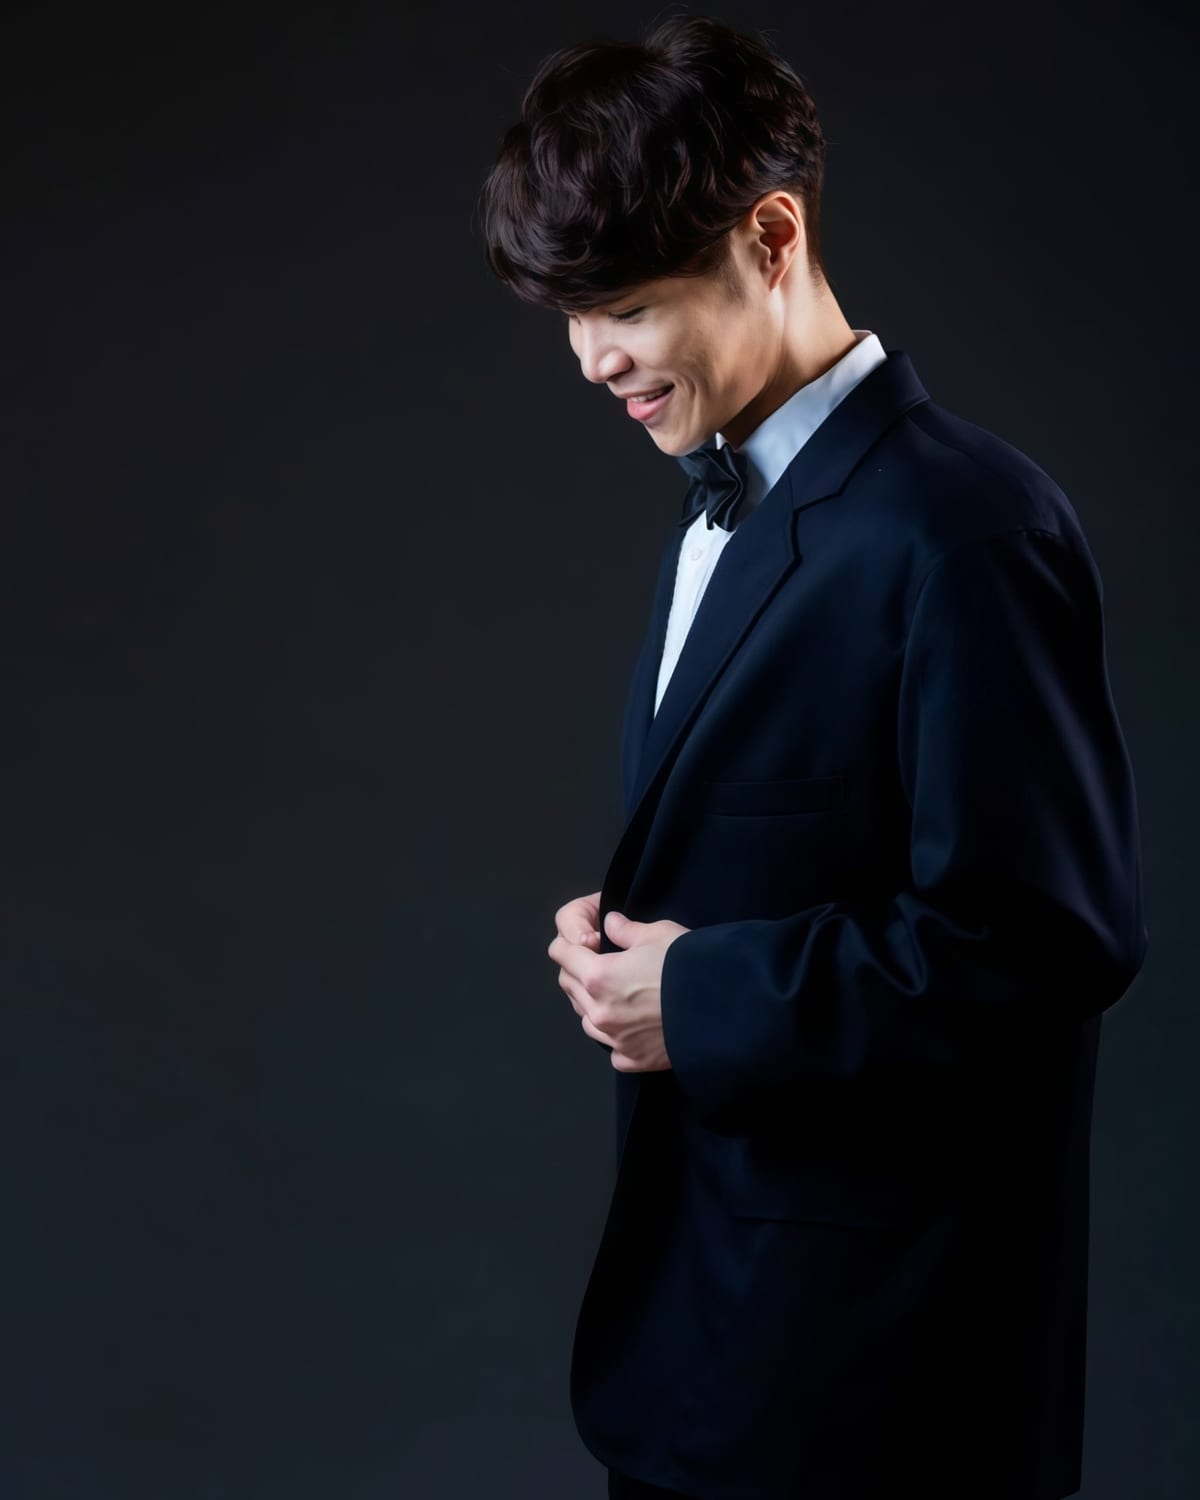
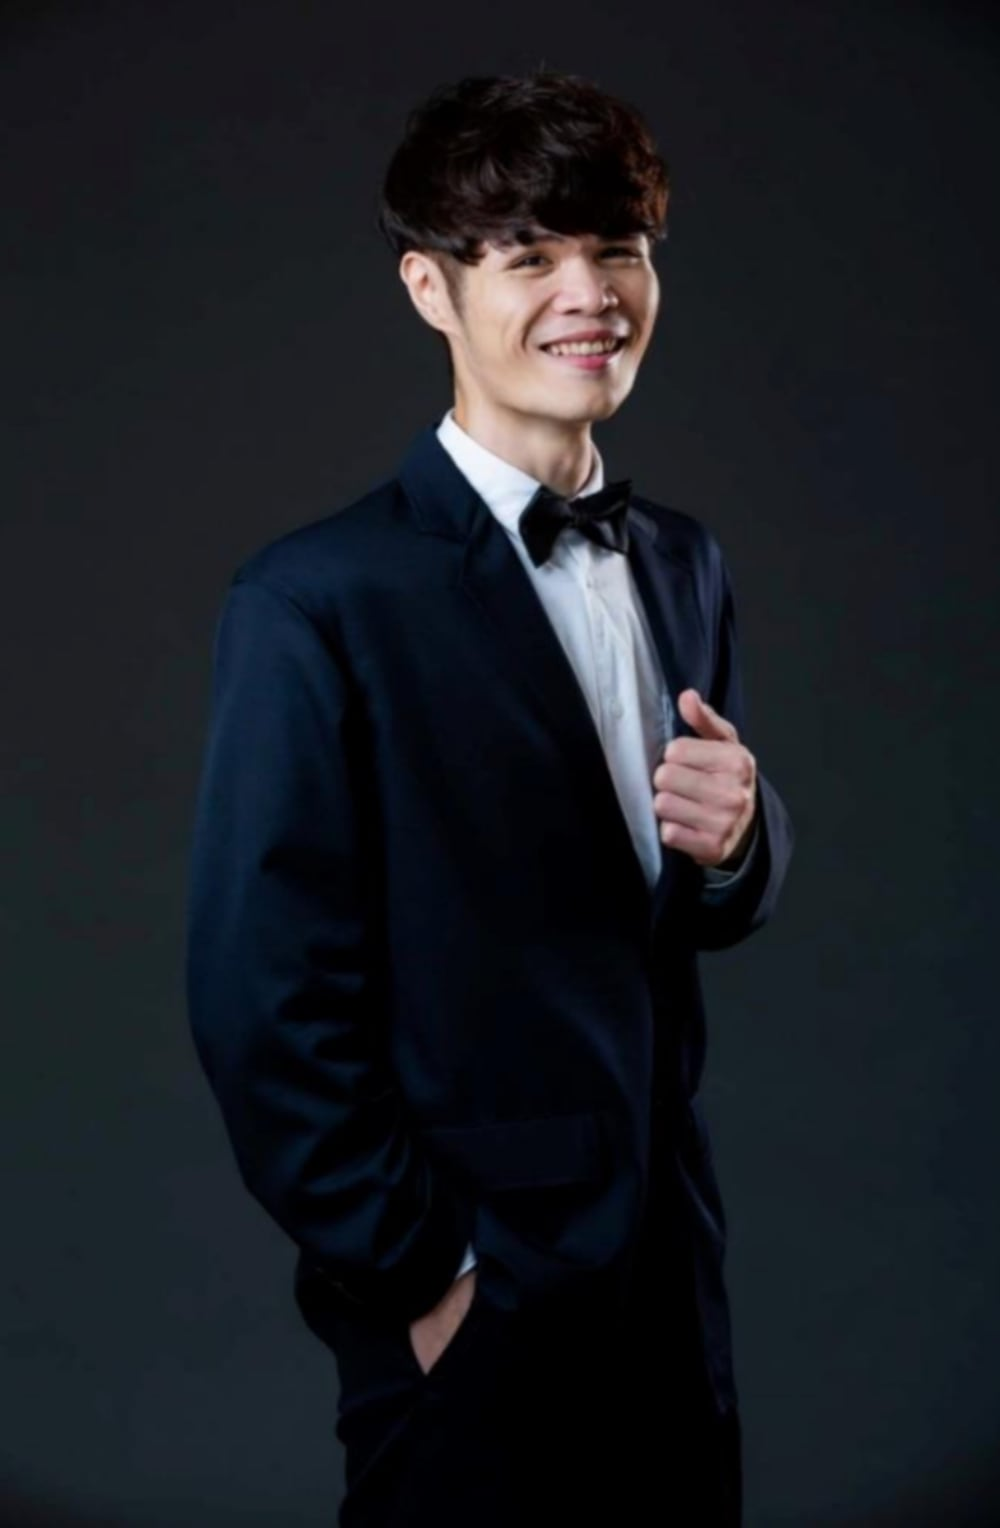
團隊：黎謙換照片，非洲戰鼓團換成 Funky Girls
一、黎謙（13 號片格）換成新照片，取景從 11% 調到 5%——
    新照片人物位置不同，11% 會切到頭頂。CSS 版與 WebGL 版的
    focus 都改了。

二、15／16 號從「曼加非洲戰鼓團」整組換成「舞團 Funky Girls」。

    文字全部照使用者提供的資料寫，一句都沒有自行發揮。原本那組的
    經歷（2010 巴黎邀請賽、甘比亞得獎、台北街頭藝人證、澳門與美國
    長駐）是另一個團的真實實績，不能留著套在新團身上。

    詳情面板用 fillWorks 的多組結構排：
      15  團體介紹（3 條）／表演優勢（2 條）／擅長演出類型（6 條）
      16  特殊經歷（2 條）

    三語都寫齊。原本英文與日文只有小標、沒有條列，開詳情會顯示
    「資料待提供」——這次一併補上。

    片格色調從土黃／墨綠改成藍（--a:#24467f、#2b4e8c），配新照片。

    「活動成果」章節裡的 pf.d3 提到五人非洲鼓團，那是一個真實發生
    過的案子紀錄，不是團隊名冊，保留不動。

三、還缺一張照片

    使用者傳了羽毛裝的團體照，但那張沒有落到檔案系統上，我只拿到
    文字。15／16 先用啦啦隊那張的兩種取景頂著：
      15 拉近到舞者
      16 保留「火力全開 2024尾牙餐會」背板，對得上經歷文字
    等照片重傳再換 15。

驗證（在頁面裡重跑 fillWorks 的邏輯，直接檢查三語輸出）：
  zh  w8a 3 組 / w8b 1 組
  en  w8a 3 組 / w8b 1 組
  ja  w8a 3 組 / w8b 1 組
  三語的 s15／s16 標題都正確，無 JS 錯誤。

Claude-Session: https://claude.ai/code/session_01UaaBt4D3iARJKEYnnKsipL

diff --git a/experimental/immersive/index.html b/experimental/immersive/index.html
@@ -2477,16 +2477,16 @@
             <div class="frame-shot" style="--a:#4a3556; --b:#140f1a; background-image: url(../../assets/team/12.jpg); background-size: cover; background-position: center 40%"><span class="num">12</span><span class="frame-role" data-i18n="teams.s12">Violinist Belina | Selected work</span></div>
           </article>
           <article class="frame">
-            <div class="frame-shot" style="--a:#1b2436; --b:#080b12; background-image: url(../../assets/team/13.jpg); background-size: cover; background-position: center 11%"><span class="num">13</span><span class="frame-role" data-i18n="teams.s13">Singer LC | Profile</span></div>
+            <div class="frame-shot" style="--a:#1b2436; --b:#080b12; background-image: url(../../assets/team/13.jpg); background-size: cover; background-position: center 5%"><span class="num">13</span><span class="frame-role" data-i18n="teams.s13">Singer LC | Profile</span></div>
           </article>
           <article class="frame">
             <div class="frame-shot" style="--a:#2a2a2a; --b:#0d0d0d; background-image: url(../../assets/team/14.jpg); background-size: cover; background-position: center 5%"><span class="num">14</span><span class="frame-role" data-i18n="teams.s14">Singer LC | Selected work</span></div>
           </article>
           <article class="frame">
-            <div class="frame-shot" style="--a:#5a3a18; --b:#1a1008; background-image: url(../../assets/team/15.jpg); background-size: cover; background-position: center 6%"><span class="num">15</span><span class="frame-role" data-i18n="teams.s15">Dance troupe 曼加非洲戰鼓團 | About the group</span></div>
+            <div class="frame-shot" style="--a:#24467f; --b:#0b1426; background-image: url(../../assets/team/15.jpg); background-size: cover; background-position: center 50%"><span class="num">15</span><span class="frame-role" data-i18n="teams.s15">Dance troupe Funky Girls | About the group</span></div>
           </article>
           <article class="frame">
-            <div class="frame-shot" style="--a:#3d5a2a; --b:#101a0b; background-image: url(../../assets/team/16.jpg); background-size: cover; background-position: center 50%"><span class="num">16</span><span class="frame-role" data-i18n="teams.s16">Dance troupe 曼加非洲戰鼓團 | Highlights</span></div>
+            <div class="frame-shot" style="--a:#2b4e8c; --b:#0c1729; background-image: url(../../assets/team/16.jpg); background-size: cover; background-position: center 50%"><span class="num">16</span><span class="frame-role" data-i18n="teams.s16">Dance troupe Funky Girls | Highlights</span></div>
           </article>
         </div>
       </div>
@@ -2885,8 +2885,8 @@
         'teams.b12': 'Concerts \u00b7 award ceremonies \u00b7 brand events',
         'teams.b13': 'Singer-songwriter and keyboardist \u00b7 talent-show winner',
         'teams.b14': 'Concerts \u00b7 hotel residencies \u00b7 commercial gigs',
-        'teams.b15': 'African war drums \u00b7 dance \u00b7 voice',
-        'teams.b16': 'International invitationals \u00b7 street-artist licence \u00b7 long residencies',
+        'teams.b15': 'Cheer dance \u00b7 commercial stage sets',
+        'teams.b16': 'Corporate year-end banquets \u00b7 pro sports venues \u00b7 outdoor carnivals',
         'teams.todo': 'Still to be supplied: name, profile and event history.',
         'teams.i6.inst': 'Violin / viola.',
         'teams.i6.edu': 'MA and BA in music, National Taipei University of Education; Tainan Girls\u2019 Senior High School.',
@@ -2900,7 +2900,13 @@
         'teams.w7.g2': 'Concerts & special appearances',
         'teams.w7.g3': 'Venues, hotel residencies & commercial gigs',
         'teams.w8a.g1': 'About the group',
+        'teams.w8a.l1': 'A professional pop-dance and commercial performance troupe — young, and high on energy. | Tall, well-trained dancers, among them regulars from the Fubon Angels cheer squad. | Known for tight, polished choreography, a bright presence and real rapport with a room, across every style of pop dance.',
+        'teams.w8a.g2': 'What they bring',
+        'teams.w8a.l2': 'They lift the energy of a room. | A hard-hitting opening number or a mid-programme set that gets the whole floor going — either way the banquet, the year-end party or the brand event catches fire on cue.',
+        'teams.w8a.g3': 'Best suited to',
+        'teams.w8a.l3': 'Year-end and spring banquet openings | Brand launches | Weddings and banquets | Commercial event support | Cheer-squad dance sets | Large parties and seasonal events',
         'teams.w8b.g1': 'Highlights',
+        'teams.w8b.l1': 'Opening and mid-programme dance sets at corporate year-end banquets and large commercial dinners, including events for groups such as Yida. | Professional baseball and basketball venues, commercial showcases and outdoor carnivals.',
         'teams.w6.l1': 'Maserati 臺灣區展示活動開幕樂手（2025）| 羅大佑《春龍交響夜》成都、北京、澳門場演唱會樂手（2024）| 張清芳《TimeLESS》上海場演唱會樂手（2024）| 台北流行音樂中心「文化館生日慶音樂會」表演嘉賓（2023）',
         'teams.w6.l2': '音樂節目《樂來樂快樂》錄製（2022）| 歐客佬咖啡豆廣告錄製（2022）| 《傳說對決》夏季冠軍賽開場演出樂手（2022）| 動畫短片《貓年海岸》音樂錄製（2021）| 玩弦四度爵士樂團：府城流水席、青春正好音樂祭、國家歌劇院「爵士好時光」、宜蘭傳藝「大聲音樂節」、基隆仲夏樂集、國家兩廳院「古典 born 爵士」、東海岸大地藝術節（2020）',
         'teams.w6.l3': '蕭敬騰《娛樂先生》演唱會樂手（2019）| 吳宗憲 Jacky Wu 演唱會樂手（2019）| 張信哲單曲〈說〉弦樂錄製（2017）| 《semifusa》同名專輯發行，入圍第 27 屆金曲獎「演奏類最佳專輯獎」、「最佳專輯製作人獎」、「最佳演奏錄音專輯獎」三項大獎（2016）| 林志炫《one take》演唱會樂手（2016）| 張克帆《兩個世界》演唱會樂手（2016）| 金點設計獎頒獎典禮開場演出樂手（2015）| 第 26 屆金曲獎主題曲錄製（2015）| WAO 女人音樂節演唱會樂手（2014）| 庾澄慶《我的哈林年代》演唱會樂手（2014）| 金馬獎頒獎典禮 — 張學友〈用餘生去愛〉典禮樂手（2014）| KKBOX 頒獎典禮 — 張學友典禮樂手（2014）| 公視《那些年，我們的歌》節目樂手（2014）',
@@ -3150,8 +3156,8 @@
         'teams.s12': '小提琴手 張家瑜 Belina ｜ 個人經歷', 'teams.b12': '演唱會 · 頒獎典禮 · 品牌活動樂手',
         'teams.s13': '歌手 黎謙 LC ｜ 個人介紹', 'teams.b13': '唱作人兼鍵盤手 · 選秀冠亞軍',
         'teams.s14': '歌手 黎謙 LC ｜ 個人經歷', 'teams.b14': '演唱會 · 飯店駐唱 · 商演',
-        'teams.s15': '舞團 曼加非洲戰鼓團 ｜ 團體介紹', 'teams.b15': '非洲戰鼓 · 舞蹈 · 歌手',
-        'teams.s16': '舞團 曼加非洲戰鼓團 ｜ 特殊經歷', 'teams.b16': '國際邀請賽 · 街頭藝人 · 長駐演出',
+        'teams.s15': '舞團 Funky Girls ｜ 團體介紹', 'teams.b15': '啦啦隊熱舞 · 商演舞蹈',
+        'teams.s16': '舞團 Funky Girls ｜ 特殊經歷', 'teams.b16': '企業尾牙 · 職業球場 · 戶外嘉年華',
         'teams.todo': '資料待提供：姓名、介紹與過往經歷都還沒拿到。',
         'teams.i6.inst': '小提琴（Violin）／中提琴（Viola）。',
         'teams.i6.edu': '畢業於國立臺北教育大學音樂研究所、國立臺北教育大學音樂系及國立臺南女子高級中學。',
@@ -3166,8 +3172,12 @@
         'teams.w7.g3': '知名場地與飯店駐唱 / 商演',
         'teams.w8a.g1': '團體介紹',
         'teams.w8b.g1': '特殊經歷',
-        'teams.w8a.l1': '曼加非洲戰鼓團以震撼的戰鼓、熱情的音樂和充滿活力的舞蹈，生動呈現非洲草原的奔放壯闊，為觀眾打開通往非洲世界的一扇窗。| 透過熱力四射的非洲戰鼓，表演者們勇於展現自我，一邊用手敲打、一邊舞出節奏，兩者完美結合。| 強烈多變的節奏與嘹亮震撼的鼓聲，讓參與者彷彿置身非洲大草原，跟隨動物王國的腳步起舞跳躍，感受非洲音樂的野性與生命力。| 曼加非洲戰鼓團是非洲當地極具盛名的表演團體，團員有高音打擊樂手、手鼓、舞者以及道地的非洲歌手。| 團員背景豐富多樣，不僅精通音樂，還擁有其他令人稱奇的技能——隊中有國內厲害的狩獵高手、來自巫師家庭的通靈歌手，還有時髦的非洲流行音樂製作人。| 這樣獨特而多元的組合，使他們在音樂表演領域中享譽非洲及國際音樂圈。',
-        'teams.w8b.l1': '2010 巴黎國際原住民文化傳承邀請賽。| 於甘比亞國內從部落到首都到其他非洲國家得獎無數。| 部分團員於 2015 年 5 月獲得台北市政府文化局核准街頭藝人（380 團只錄取 30 幾團）。| 目前長駐澳門與美國，部分團員於 2015 年與台中麗寶樂園簽約演出一年，並曾於高雄義大演出 5 年。| 2020 獲選新北市政府鼓藝節鼓藝示範團隊。| 2020 獲選新北市國父紀念非洲文化館示範團隊。',
+        'teams.w8a.l1': '充滿青春活力、熱情四射的專業流行舞蹈與商演表演團體。| 成員多具備高挑身材與深厚舞功，富邦啦啦隊 Fubon Angels 的人氣成員亦為班底。| 以精湛整齊的舞姿、甜美外型與極佳的舞台互動魅力著稱，能完美駕馭各種風格的流行熱舞。',
+        'teams.w8a.g2': '表演優勢',
+        'teams.w8a.l2': '擅長炒熱現場氣氛。| 無論是震撼的開場舞，或是帶動全場的高潮中場舞，總能瞬間點燃晚會、尾牙與商業活動的熱情。',
+        'teams.w8a.g3': '擅長演出類型',
+        'teams.w8a.l3': '企業尾牙春酒開場 | 品牌發表會 | 婚禮宴會 | 商業活動助陣 | 啦啦隊熱舞 | 大型派對與節慶活動',
+        'teams.w8b.l1': '各大企業年度尾牙餐會、大型商業晚宴的開場與中場熱舞表演（如依田集團等大型企業活動）。| 職棒、職籃球場及各大商業展演、戶外嘉年華活動。',
         'teams.s9': '主持人 TongTong 彤彤 ｜ 個人介紹', 'teams.b9': '7 年以上主持經驗 · 飛藝舞團團長',
         'teams.s10': '主持人 TongTong 彤彤 ｜ 個人經歷', 'teams.b10': '尾牙春酒 · 記者會 · 家庭日與親子活動',
         'teams.i5.bg': '擁有超過 7 年的專業主持經驗，個性活潑開朗、親和力十足，同時也是「飛藝舞團」的團長。',
@@ -3387,8 +3397,8 @@
         'teams.s12': 'ヴァイオリニスト 張家瑜 Belina ｜ 実績', 'teams.b12': 'コンサート · 授賞式 · ブランドイベント',
         'teams.s13': 'シンガー 黎謙 LC ｜ プロフィール', 'teams.b13': 'シンガーソングライター兼キーボード · オーディション優勝・準優勝',
         'teams.s14': 'シンガー 黎謙 LC ｜ 実績', 'teams.b14': 'コンサート · ホテル常演 · 商業公演',
-        'teams.s15': 'ダンスチーム 曼加アフリカ戦鼓団 ｜ 団体紹介', 'teams.b15': 'アフリカ戦鼓 · ダンス · ヴォーカル',
-        'teams.s16': 'ダンスチーム 曼加アフリカ戦鼓団 ｜ 特記事項', 'teams.b16': '国際招待大会 · ストリートアーティスト認定 · 長期常演',
+        'teams.s15': 'ダンスチーム Funky Girls ｜ 団体紹介', 'teams.b15': 'チアダンス · 商業公演',
+        'teams.s16': 'ダンスチーム Funky Girls ｜ 特記事項', 'teams.b16': '企業忘年会 · プロスポーツ会場 · 屋外カーニバル',
         'teams.todo': '氏名・プロフィール・実績は後日追加します。',
         'teams.i6.inst': 'ヴァイオリン（Violin）／ヴィオラ（Viola）。',
         'teams.i6.edu': '国立台北教育大学 音楽研究科修了、同大学 音楽学科卒業、国立台南女子高級中学卒業。',
@@ -3402,7 +3412,13 @@
         'teams.w7.g2': '大型コンサート・特別出演',
         'teams.w7.g3': '主要会場・ホテル常演・商業公演',
         'teams.w8a.g1': '団体紹介',
+        'teams.w8a.l1': '若さと熱量にあふれる、ポップダンスと商業公演のプロチーム。| 長身で踊り込んだメンバーが揃い、富邦チアリーダー Fubon Angels の人気メンバーも在籍。| 揃った振り、華やかな佇まい、客席を巻き込む力で知られ、あらゆるスタイルのポップダンスをこなします。',
+        'teams.w8a.g2': 'パフォーマンスの強み',
+        'teams.w8a.l2': '会場の空気を一気に引き上げます。| 力強いオープニングでも、場内を巻き込む中盤のステージでも、宴会・忘年会・商業イベントの熱を即座に点火します。',
+        'teams.w8a.g3': '得意な演目',
+        'teams.w8a.l3': '企業の忘年会・新年会のオープニング | ブランド発表会 | 結婚披露宴 | 商業イベントの応援 | チアダンス | 大型パーティーと季節イベント',
         'teams.w8b.g1': '特記事項',
+        'teams.w8b.l1': '企業の年度忘年会や大型商業ディナーでのオープニング・中盤のダンスステージ（依田グループなどの大型企業イベント）。| プロ野球・プロバスケットボールの会場、各種商業展示、屋外カーニバル。',
         'teams.s9': '司会 TongTong ｜ プロフィール', 'teams.b9': '7年以上の司会経験 · 飛藝ダンスチーム代表',
         'teams.s10': '司会 TongTong ｜ 実績', 'teams.b10': '忘年会・新年会 · 発表会 · ファミリーデー',
         'teams.i5.bg': '7年以上のプロ司会歴。明るく親しみやすい性格で、「飛藝ダンスチーム」の代表も務めます。',
@@ -4651,10 +4667,10 @@
       { a: '#20405e', b: '#0a131c', src: '../../assets/team/10.jpg', focus: .20 },
       { a: '#3a3550', b: '#111018', src: '../../assets/team/11.jpg', focus: .50 },
       { a: '#4a3556', b: '#140f1a', src: '../../assets/team/12.jpg', focus: .40 },
-      { a: '#1b2436', b: '#080b12', src: '../../assets/team/13.jpg', focus: .11 },
+      { a: '#1b2436', b: '#080b12', src: '../../assets/team/13.jpg', focus: .05 },
       { a: '#2a2a2a', b: '#0d0d0d', src: '../../assets/team/14.jpg', focus: .05 },
-      { a: '#5a3a18', b: '#1a1008', src: '../../assets/team/15.jpg', focus: .06 },
-      { a: '#3d5a2a', b: '#101a0b', src: '../../assets/team/16.jpg', focus: .50 }
+      { a: '#24467f', b: '#0b1426', src: '../../assets/team/15.jpg', focus: .50 },
+      { a: '#2b4e8c', b: '#0c1729', src: '../../assets/team/16.jpg', focus: .50 }
     ];
 
     /* 每位主持人佔兩格：第一格是介紹，第二格是過往經歷 */
